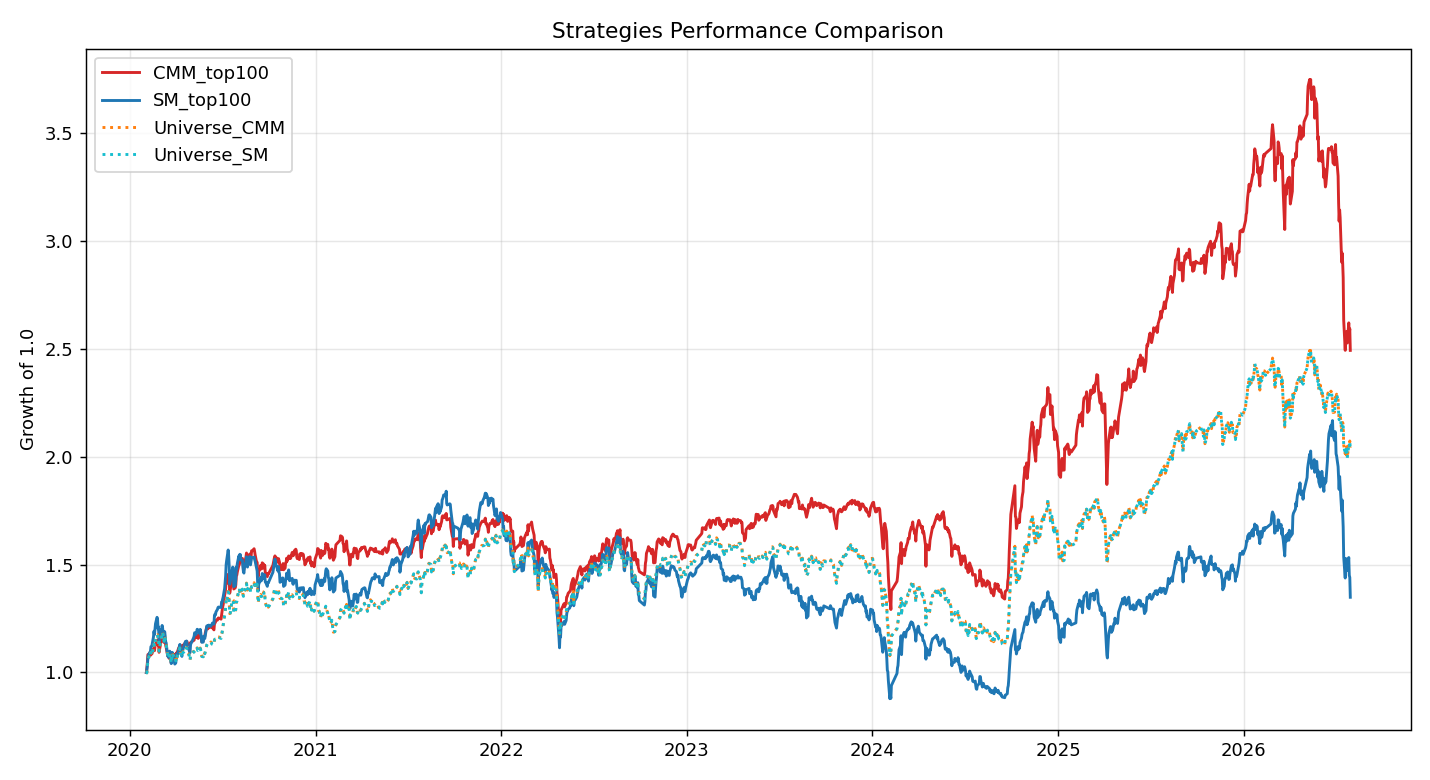
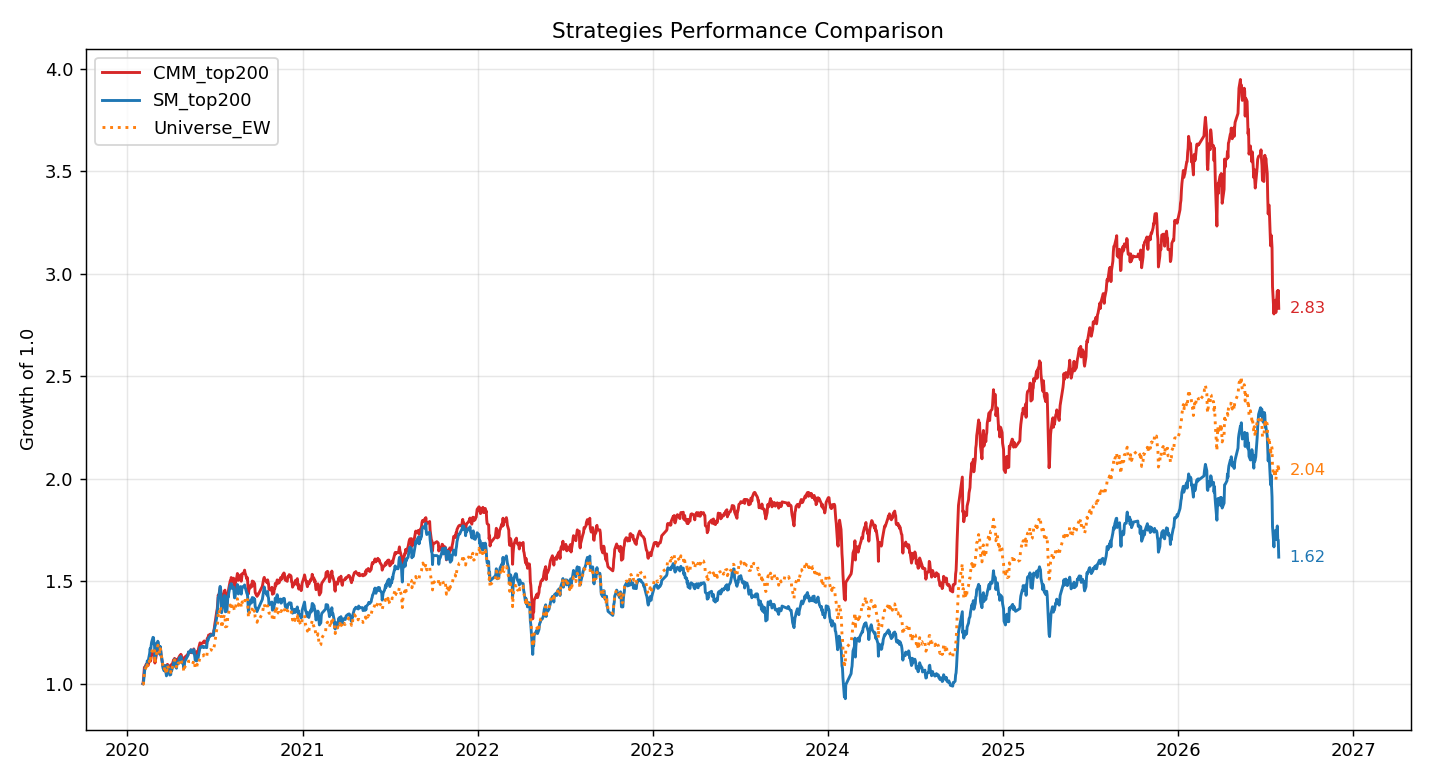
added binned performance graphs

diff --git a/backtest.py b/backtest.py
@@ -21,7 +21,8 @@ Outputs (in output/):
     backtest_ic.csv          monthly IC / RankIC for CMM vs SM
     equity_curve.png         CMM/SM top-K vs equal-weight universes (CMM & SM)
     binned_performance.png   CMM signal-sorted quantile bins (G1..G{BINS}),
-                             bar + line growth of each bin
+                             bar + line of each bin's performance (growth of 1.0
+                             or cumulative return, per --axis)
     backtest_summary.txt     printed + saved narrative
 """
 
@@ -238,6 +239,20 @@ def metrics(nav):
     }
 
 
+def axis_series(nav, axis):
+    """
+    Purpose: Convert a NAV series into the y-axis quantity selected by --axis.
+        "growth"  -> cumulative growth of 1.0 (nav / nav[0])
+        "returns" -> cumulative return (nav / nav[0] - 1), starting at 0.0
+    Used by: main() plotting code (equity curve + binned performance).
+    Returns: pd.Series indexed like `nav` (same length).
+    """
+    g = nav / nav.iloc[0]
+    if axis == "growth":
+        return g
+    return (g - 1.0)
+
+
 def ic_stats(dates, idx, close_p, sig, test_month_ends, tradable_fn):
     """
     Purpose: Compute monthly cross-sectional IC and RankIC for the CMM and SM
@@ -346,8 +361,23 @@ def main():
     ap.add_argument("--bins", type=int, default=BINS,
                     help="number of signal-sorted quantile bins for "
                          "binned_performance.png (default 10 = deciles)")
+    ap.add_argument("--axis", type=str, choices=["growth", "returns"],
+                    default="growth",
+                    help="y-axis for the three plots: 'growth' = growth of 1.0 "
+                         "(default), 'returns' = cumulative return")
     args = ap.parse_args()
     bins = args.bins
+    axis = args.axis
+    if axis == "returns":
+        YLABEL = "Cumulative Returns"
+        BIN_BAR_TITLE = "Final cumulative return per bin"
+        BIN_LINE_TITLE = "Cumulative return over time per bin"
+        BIN_HLINE = 0.0
+    else:
+        YLABEL = "Growth of 1.0"
+        BIN_BAR_TITLE = "Final growth of 1.0 per bin"
+        BIN_LINE_TITLE = "Growth over time per bin"
+        BIN_HLINE = 1.0
 
     sig_path = (os.path.join(OUT_DIR, f"signals_s{args.stocks}.parquet")
                 if args.stocks is not None else SIG_PATH)
@@ -425,8 +455,7 @@ def main():
     for name, (col, topk) in {
         f"CMM_top{TOP_K}": ("cmm_signal", TOP_K),
         f"SM_top{TOP_K}": ("sm_signal", TOP_K),
-        "Universe_CMM": ("cmm_signal", None),   # all tradable, equal weight
-        "Universe_SM": ("sm_signal", None),
+        "Universe_EW": ("cmm_signal", None),   # all tradable, equal weight
     }.items():
         sched, avg_sig = build_schedule(col, topk)
         strategies[name] = sched
@@ -470,20 +499,26 @@ def main():
     # distinct color/linestyle so all four show up in the legend and any future
     # divergence (e.g. signal-weighted sizing) is visible.
     plt.figure(figsize=(11, 6))
+    ax = plt.gca()
     plot_style = {
         f"CMM_top{TOP_K}":  {"color": "tab:red",    "linestyle": "-"},
         f"SM_top{TOP_K}":   {"color": "tab:blue",   "linestyle": "-"},
-        "Universe_CMM":     {"color": "tab:orange",  "linestyle": ":"},
-        "Universe_SM":      {"color": "tab:cyan", "linestyle": ":"},
+        "Universe_EW":     {"color": "tab:orange",  "linestyle": ":"},
     }
-    for name in [f"CMM_top{TOP_K}", f"SM_top{TOP_K}", "Universe_CMM", "Universe_SM"]:
+    for name in [f"CMM_top{TOP_K}", f"SM_top{TOP_K}", "Universe_EW"]:
         nav = navs[name]
         if len(nav) == 0:
             continue
-        nav = nav / nav.iloc[0]  # normalize to growth of 1.0
-        plt.plot(nav.index, nav.values, label=name, linewidth=1.6, **plot_style[name])
+        y = axis_series(nav, axis)
+        plt.plot(y.index, y.values, label=name, linewidth=1.6, **plot_style[name])
+        ax.annotate(f"{y.iloc[-1]:.2f}", (y.index[-1], y.iloc[-1]),
+                    xytext=(6, 0), textcoords="offset points",
+                    color=plot_style[name]["color"], fontsize=9,
+                    va="center", ha="left")
+    xlo, xhi = ax.get_xlim()
+    ax.set_xlim(xlo, xhi + (xhi - xlo) * 0.06)   # room for the end-of-line labels
     plt.title("Strategies Performance Comparison")
-    plt.ylabel("Growth of 1.0")
+    plt.ylabel(YLABEL)
     plt.legend()
     plt.grid(alpha=0.3)
     plt.tight_layout()
@@ -495,13 +530,13 @@ def main():
     bin_schedules, bin_sig_strength = build_bin_schedules(
         sig, dates, idx, test_month_ends, tradable_fn, "cmm_signal", bins)
     bin_navs = {}
-    bin_growth = {}
+    bin_final = {}
     bin_turns = {}
     for g in range(1, bins + 1):
         nav, to = run_portfolio(dates, idx, close_p, ret_p, bin_schedules[g], f"CMM_G{g}")
         bin_navs[g] = nav
         bin_turns[g] = to
-        bin_growth[g] = nav.iloc[-1] / nav.iloc[0] if len(nav) > 1 else np.nan
+        bin_final[g] = axis_series(nav, axis).iloc[-1] if len(nav) > 1 else np.nan
 
     cmap = plt.cm.coolwarm                                 # G1 (cold) -> G{bins} (hot)
     bin_color = {g: cmap((g - 1) / max(bins - 1, 1)) for g in range(1, bins + 1)}
@@ -513,11 +548,11 @@ def main():
 
     # Top panel: bar chart of final cumulative growth per bin.
     ax = axes[0]
-    heights = [bin_growth[g] for g in range(1, bins + 1)]
+    heights = [bin_final[g] for g in range(1, bins + 1)]
     bars = ax.bar(labels, heights, color=[bin_color[g] for g in range(1, bins + 1)])
-    ax.axhline(1.0, color="black", linestyle="--", linewidth=1, alpha=0.6)
-    ax.set_title("Final growth of 1.0 per bin")
-    ax.set_ylabel("Growth of 1.0")
+    ax.axhline(BIN_HLINE, color="black", linestyle="--", linewidth=1, alpha=0.6)
+    ax.set_title(BIN_BAR_TITLE)
+    ax.set_ylabel(YLABEL)
     ax.grid(axis="y", alpha=0.3)
     finite_h = [h for h in heights if np.isfinite(h)]
     max_h = max(finite_h) if finite_h else 1.0
@@ -532,11 +567,16 @@ def main():
         nav = bin_navs[g]
         if len(nav) < 2:
             continue
-        nav = nav / nav.iloc[0]
-        ax.plot(nav.index, nav.values, label=f"G{g}", linewidth=1.4,
+        y = axis_series(nav, axis)
+        ax.plot(y.index, y.values, label=f"G{g}", linewidth=1.4,
                 color=bin_color[g])
-    ax.set_title("Growth over time per bin")
-    ax.set_ylabel("Growth of 1.0")
+        ax.annotate(f"{y.iloc[-1]:.2f}", (y.index[-1], y.iloc[-1]),
+                    xytext=(6, 0), textcoords="offset points",
+                    color=bin_color[g], fontsize=8, va="center", ha="left")
+    xlo, xhi = ax.get_xlim()
+    ax.set_xlim(xlo, xhi + (xhi - xlo) * 0.06)   # room for the end-of-line labels
+    ax.set_title(BIN_LINE_TITLE)
+    ax.set_ylabel(YLABEL)
     ax.set_xlabel("Date")
     ax.legend(ncol=2, fontsize=8, loc="upper left")
     ax.grid(alpha=0.3)
